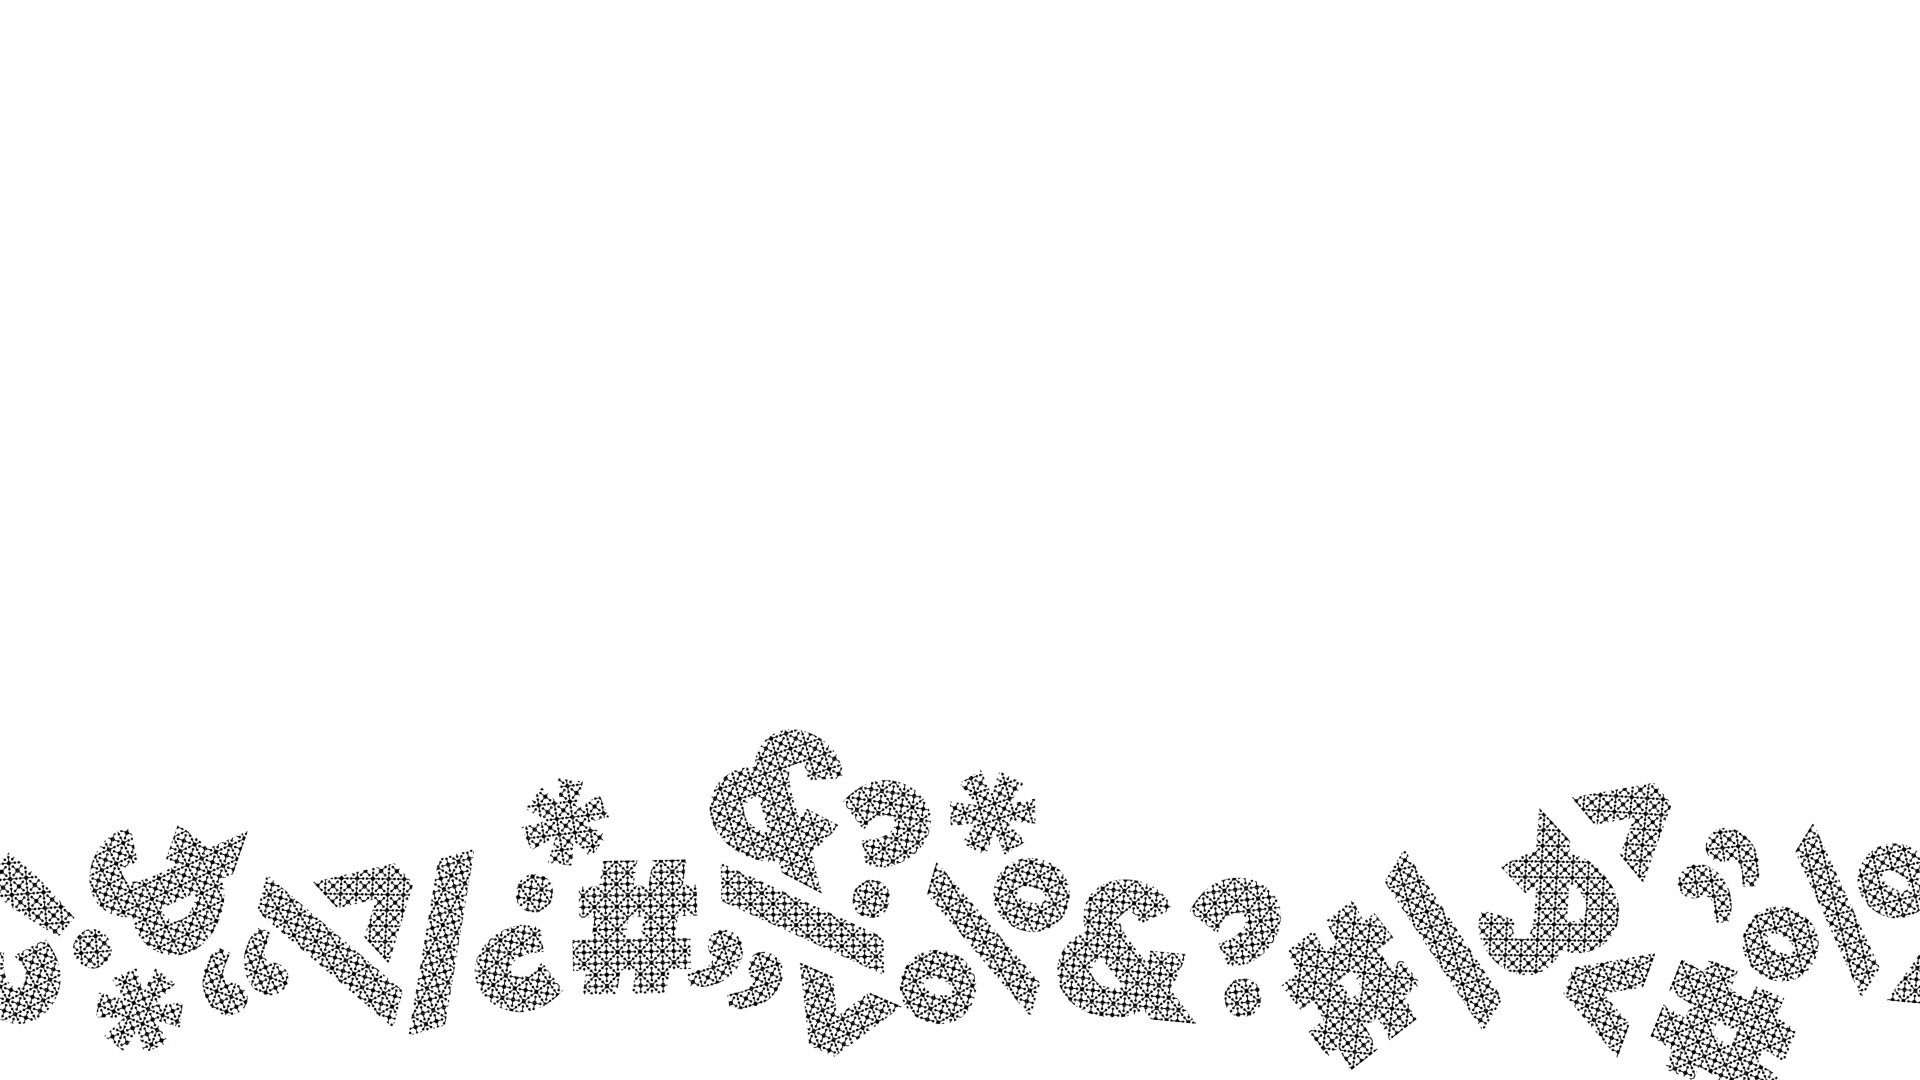
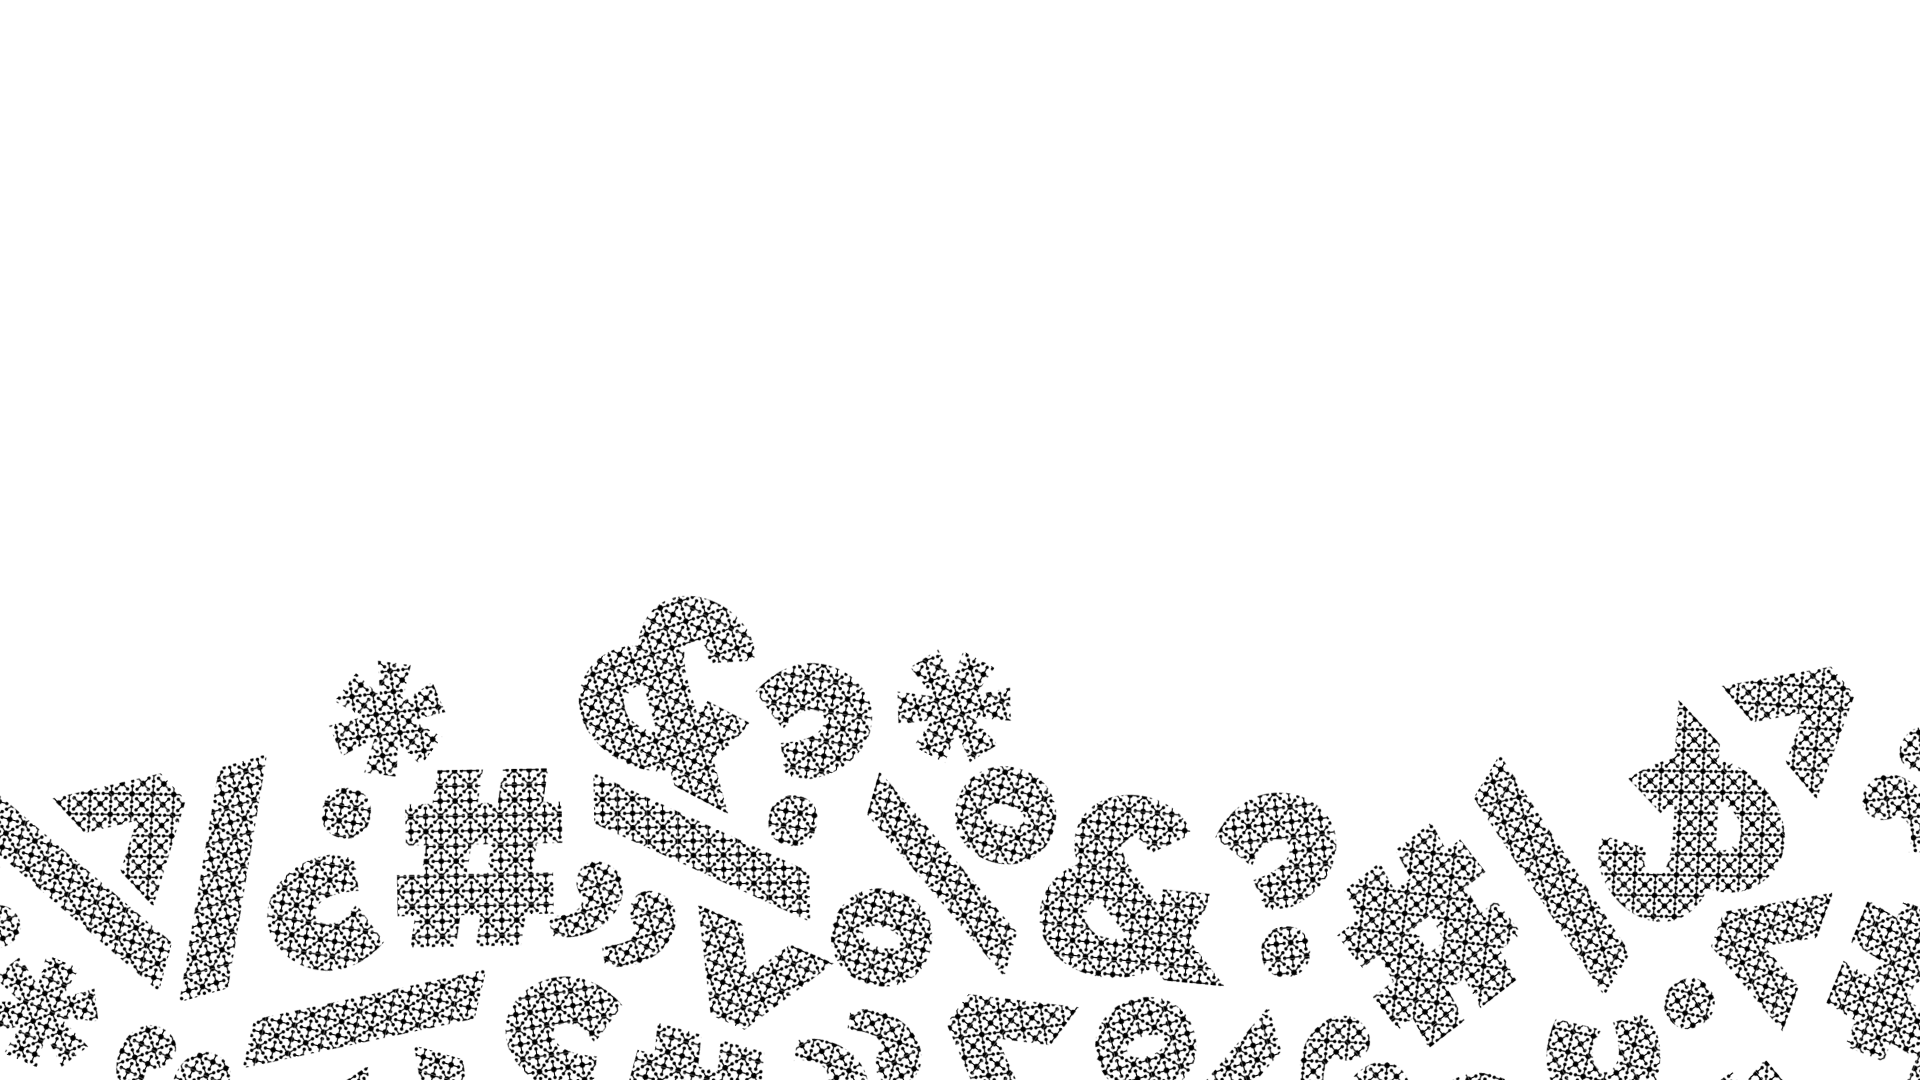
added new hero image

Changed region(s): [[0.0, 0.55, 1.0, 1.0]]

diff --git a/index.html b/index.html
@@ -46,8 +46,8 @@
       </div>
     </div>
     <div class="clickholdwrap">
-      <div class="paragraph is--centeraligned is--white">
-        CLICK AND<br />HOLD
+      <div class="paragraph is--centeraligned is--white cursor-text">
+        CLICK AND<br />HOLD
       </div>
     </div>
     <div class="section nav wf-section">
@@ -149,7 +149,7 @@
       <div class="tracks_img_wrap">
         <div class="tracks_img_inner">
           <img
-            src="images/hero_filled.png"
+            src="images/newelts_filled.png"
             loading="lazy"
             sizes="100vw"
             srcset="
@@ -157,7 +157,7 @@
               images/hero_filled-p-800.png   800w,
               images/hero_filled-p-1080.png 1080w,
               images/hero_filled-p-1600.png 1600w,
-              images/hero_filled.png        1920w
+              images/newelts_filled.png        1920w
             "
             alt=""
             class="placeholder"
@@ -343,7 +343,7 @@
       <div class="mobile_img_wrap">
         <div class="tracks_img_inner">
           <img
-            src="images/hero_filled.png"
+            src="images/newelts_filled.png"
             loading="lazy"
             sizes="100vw"
             srcset="
@@ -351,7 +351,7 @@
               images/hero_filled-p-800.png   800w,
               images/hero_filled-p-1080.png 1080w,
               images/hero_filled-p-1600.png 1600w,
-              images/hero_filled.png        1920w
+              images/newelts_filledpng        1920w
             "
             alt=""
             class="placeholder"

diff --git a/css/spiritofethos.webflow.css b/css/spiritofethos.webflow.css
@@ -355,6 +355,10 @@
   letter-spacing: -0.01em;
 }
 
+.paragraph.cursor-text{
+  font-weight: 600;
+}
+
 .paragraph.is--white {
   color: #fff;
 }
